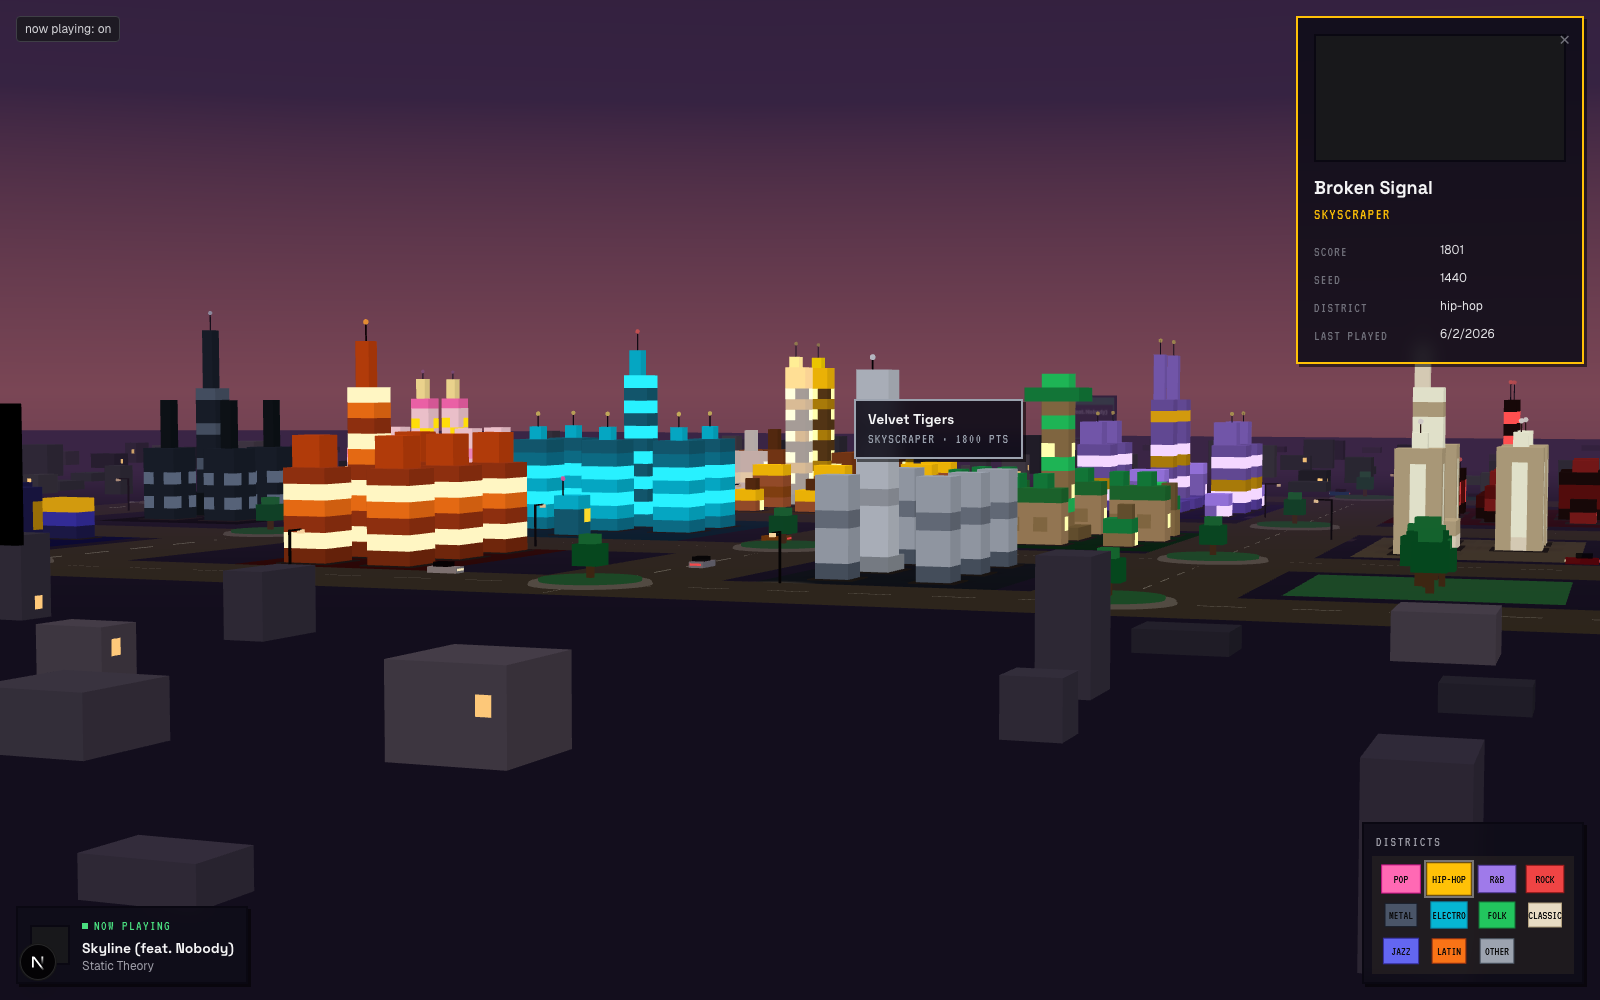
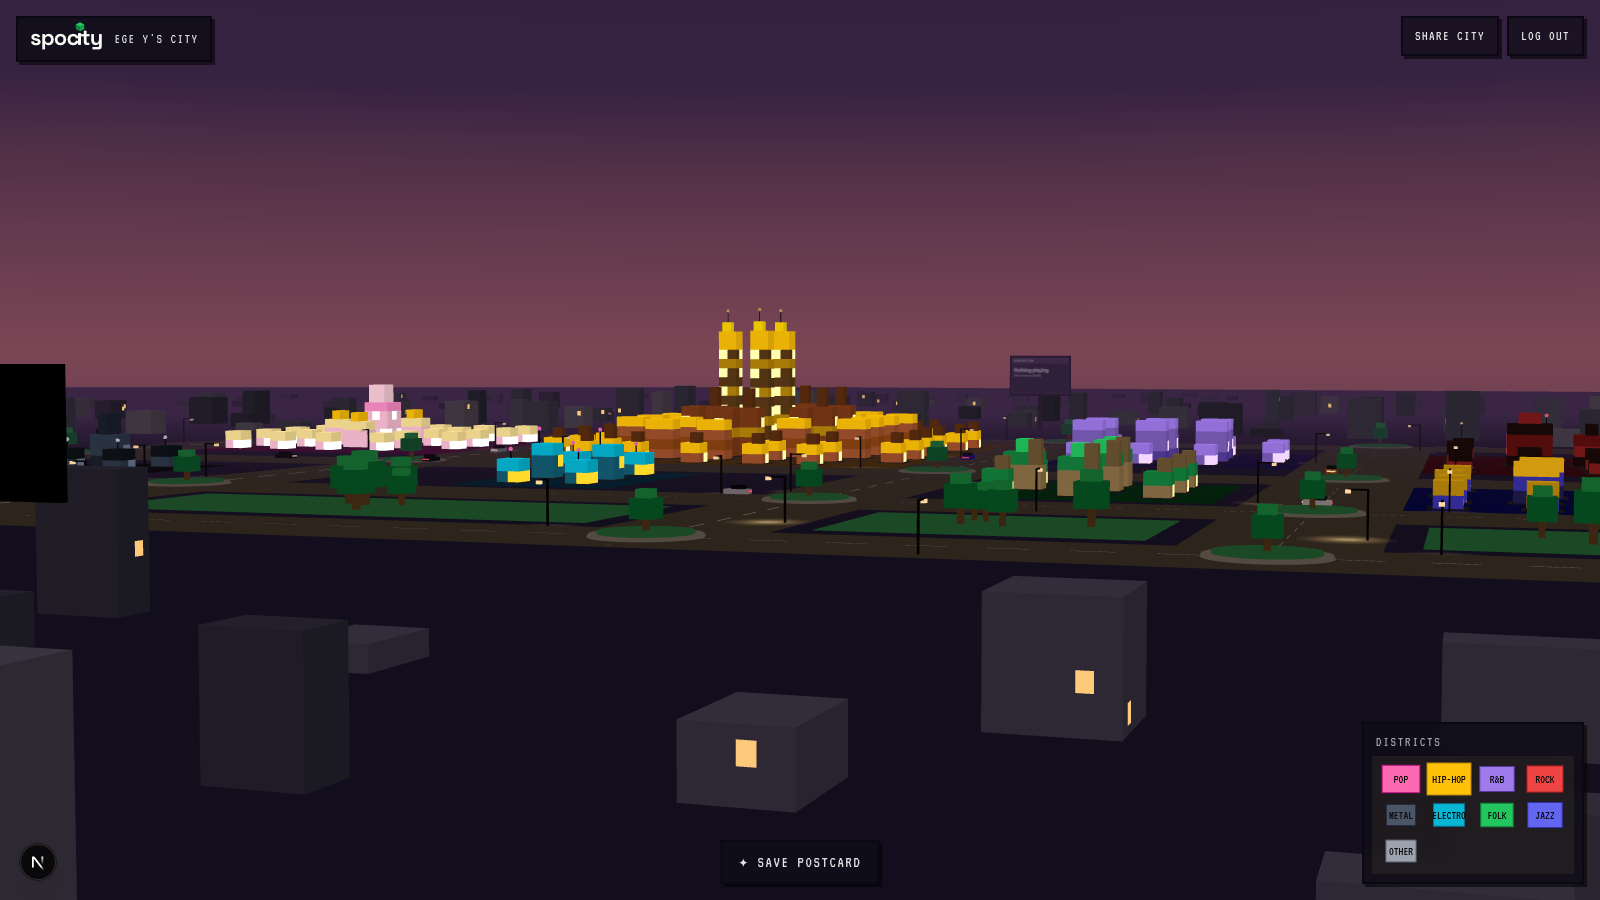
Refresh README with current screenshots and clearer copy
New shots from the live app: city overview, building detail panel, and a
generated postcard. Rewrote the intro, how-it-works, stack and structure
sections to match the shipped full-stack app (public pages, postcard,
Railway backend) and tightened the prose.

diff --git a/README.md b/README.md
@@ -1,72 +1,71 @@
 # spocity
 
-> Your Spotify listening, built as a city. Every artist you listen to becomes a voxel building — the more you play them, the taller it grows. Genres settle into districts with their own architecture, and the skyline changes as your taste does.
+> Your Spotify listening turned into a 3D voxel city you can walk through. Every artist you play becomes a building, and the more you listen the taller it grows. Genres settle into their own neighborhoods, and the skyline changes as your taste does.
 
-**Live**: [spocity-smoky.vercel.app](https://spocity-smoky.vercel.app) · [connect Spotify](https://spocity-smoky.vercel.app/api/auth/login) to build your own, or wander the [demo city](https://spocity-smoky.vercel.app/demo) with no login.
+**Live:** [spocity-smoky.vercel.app](https://spocity-smoky.vercel.app) · [connect Spotify](https://spocity-smoky.vercel.app/api/auth/login) to build your own, or explore the [demo city](https://spocity-smoky.vercel.app/demo) without signing in.
 
-![The city at dusk](docs/city-overview.png)
+![A voxel city at dusk, seen from above](docs/city-overview.png)
 
-| | |
-|---|---|
-| ![Street level](docs/street-level.png) | ![Landing page](docs/landing.png) |
-
----
+<table>
+<tr>
+<td width="50%"><img src="docs/detail-panel.png" alt="Clicking a building shows the artist, tier, score and last-played date" /></td>
+<td width="50%"><img src="docs/postcard.png" alt="A shareable postcard rendered from the city" /></td>
+</tr>
+<tr>
+<td align="center"><em>Click any building for the artist behind it</em></td>
+<td align="center"><em>Save a shareable postcard of your city</em></td>
+</tr>
+</table>
 
 ## What it does
 
-- **One building per artist.** Buildings climb six tiers — shack, house, apartment, office, skyscraper, landmark — driven by a score of `seed + observed plays`. Day one is seeded from your Spotify top artists so the city is full within seconds; from then on, every play Spocity observes adds a voxel's worth of progress.
-- **Genre districts.** Artists are classified into ten high-level genre buckets (plus an "other" outskirts) via an ordered keyword matcher over Last.fm tags. Each district has hand-authored voxel architecture: brownstones with gold trim for hip-hop, glasshouse towers for electronic, art-deco spires for jazz.
-- **A city at dusk.** Flat-shaded pixel-art voxels with baked 3-tone shading, glowing windows, streetlights, ambient traffic, procedural outskirts and a gradient sky dome. Hover any building for the artist behind it; the artist you're playing *right now* pulses.
-- **Background ingestion.** Celery workers poll `recently-played` hourly per active user and recompute scores nightly, emitting tier-change events.
+Sign in with Spotify and Spocity reads your top artists, then lays out a city within a few seconds. Each artist is a building sized by how much you listen, climbing six tiers from a one-block shack up to a landmark tower. Artists get sorted into ten genre districts, each with its own architecture and palette: brownstones with gold trim for hip-hop, glass towers for electronic, art-deco spires for jazz. Hover a building to see who it is, and the artist you are playing right now glows and pulses on its tower.
 
-## Try it
+Every city lives at a public URL you can share (`/your-name`), and a **Save postcard** button renders a 1200×630 image of the skyline entirely in the browser. The demo city is the same thing without a login, so anyone can walk around one before deciding to connect their own account.
 
-Two ways in, both live:
+## How it works
 
-- **Connect Spotify** → the app pulls your top artists, seeds a skyline in seconds, classifies each artist into a district (with a progress bar), and drops you into your own city at a public URL you can share (`/<your-name>`). Spotify caps development-mode apps at **25 hand-approved accounts**, so if the beta is full the sign-in gracefully routes you to the demo instead.
-- **Demo city** → the `/demo` route is a real, fully interactive city (the project owner's) — no login required. Every city has a **Save postcard** button that renders a shareable 1200×630 PNG client-side.
+The parts I found most interesting to build.
 
----
+**Flat-shaded voxels.** The look is isometric pixel art, and normal 3D lighting fights it: shadows wash the colors with the sky tint and the shading shifts as you orbit. So nothing in the city is lit at all. Each building is baked into one merged mesh with the three-tone face shading written directly into the vertex colors, and a small unlit shader draws it. Windows carry a `glow` flag that skips the shading and reads as light against the dusk. Interior faces between voxels are dropped, so a whole building renders in a single draw call.
+
+**Scoring that respects your history.** The first version scored artists with a two-half-life decay curve. Once it ran against real listening data, it buried anyone I loved a couple of years ago under whatever I happened to play last week, which felt wrong for a product about your taste over time. Scores are now cumulative on top of a rank-seeded starting point, and the idea of "fading" moved from the math into the visuals instead. Watching the decay model fail on real data and then cutting it taught me more than keeping it would have.
+
+**Genres as a feedback loop.** Spotify removed genre tags from its artist objects in 2024, so tags come from Last.fm and run through an ordered keyword matcher that folds hundreds of micro-genres into ten buckets. Anything the matcher misses gets logged to its own table, so the rules improve from real misses rather than guesswork.
+
+**A preview harness for the 3D work.** For a while the city only rendered behind a Spotify login, so every visual change shipped blind. I added a dev-only route that renders the real city from a fixed mock payload, which turned iteration into a screenshot loop. It later grew into the public `/demo` page.
 
 ## Stack
 
 | Layer | Tech |
 |---|---|
-| Frontend | Next.js 15 (App Router) · TypeScript · Tailwind v4 · React Three Fiber |
-| Backend | Django 6 · Django REST Framework |
-| Database | Postgres 16 (Railway managed in prod, Docker locally) |
-| Workers | Celery + Redis (hourly ingest, nightly recompute) |
-| Genre data | Last.fm `artist.getTopTags` (Spotify removed artist genres in 2024) |
-| Hosting | Vercel (frontend) · Railway (Django + Postgres) |
+| Frontend | Next.js 15 (App Router), TypeScript, Tailwind v4, React Three Fiber |
+| Backend | Django 6, Django REST Framework |
+| Database | Postgres 16 (Railway in production, Docker locally) |
+| Workers | Celery and Redis for hourly ingestion and nightly recompute |
+| Genre data | Last.fm `artist.getTopTags` |
+| Hosting | Vercel (frontend), Railway (Django and Postgres) |
 
-The frontend proxies `/api/*` to the Railway backend via a Next.js rewrite, so the Django session cookie stays first-party on the Vercel origin — no cross-site cookie problems. Because the hosted deployment has no Celery worker running, first-login ingestion happens on-demand: a fast Spotify-only seed, then a batched Last.fm district-classification loop with a progress bar, and a play refresh on every city load.
-
-## Engineering notes
-
-A few decisions that shaped the project:
-
-- **Baked flat voxel shading.** The reference art is isometric pixel art, which PBR lighting can't reproduce — it washes colors with the sky tint and shifts with the camera. Instead, each building is one merged, interior-face-culled `BufferGeometry` with a 3-tone face shade baked into linear vertex colors, rendered by a tiny unlit shader. Windows carry a `glow` flag and skip shading entirely so they read as light sources. An entire building is a single draw call.
-- **Scores accumulate; they don't decay.** v1 shipped a two-half-life exponential decay model. Run against real listening data it erased genuinely important artists (anything loved two years ago scored below last week's background noise), so it was removed: scores are now cumulative on top of a rank-seeded anchor, and "fading" will be expressed visually (weathering) rather than numerically. Building the algorithm, measuring it against reality, and deleting it was the most useful thing this project taught me.
-- **Genre rollup as a feedback loop.** Spotify stopped returning artist genres, so tags come from Last.fm and pass through an ordered substring classifier into ten buckets. Every unmatched tag is logged to a `genre_unmapped` table — the classifier improves from production data instead of guesswork.
-- **A design harness, because 3D behind OAuth is invisible.** Every visual change used to ship blind (the city only rendered for a logged-in Spotify account). `/dev/city` renders the real city view from a deterministic mock payload, which made screenshot-driven iteration possible — and later became the public `/demo` route.
+The frontend proxies `/api/*` to the Railway backend through a Next.js rewrite, which keeps the Django session cookie first-party on the Vercel origin and avoids cross-site cookie problems. Because the hosted deployment runs without a Celery worker, first-login ingestion happens on demand: a quick Spotify-only seed, then a batched Last.fm classification pass with a progress bar, and a play refresh whenever a city loads.
 
 ## Architecture
 
 ```
 Browser
-  │
-  ├─ GET /        →  Next.js — landing (demo mode: all CTAs → /demo)
-  ├─ GET /demo    →  Next.js — sample city, no auth, fully client-side
-  ├─ GET /me      →  Next.js SSR → Django /api/auth/me/ (session cookie)
-  └─ client fetches → Django REST API
+  ├─ GET /            Next.js landing page
+  ├─ GET /demo        redirects to the owner's public city (mock fallback)
+  ├─ GET /<name>      public read-only city
+  ├─ GET /me          your own city (Django session cookie)
+  └─ client fetches   /api/* proxied to the Django backend
 
-Django
-  ├─ core/        auth (Spotify OAuth PKCE), city payload, genre rollup
-  └─ Celery worker + beat → Redis
-        ├─ hourly:  poll /recently-played per active user
+Django (Railway)
+  ├─ Spotify OAuth (PKCE), on-demand ingest, genre rollup
+  ├─ city payload + now-playing endpoints
+  └─ Celery worker + beat  →  Redis
+        ├─ hourly:  poll recently-played per active user
         └─ nightly: recompute scores, emit tier-change events
 
-Postgres ← Django ORM        Last.fm ← genre tags
+Postgres  ←  Django ORM            Last.fm  ←  genre tags
 ```
 
 ## Project structure
@@ -75,63 +74,45 @@ Postgres ← Django ORM        Last.fm ← genre tags
 spocity/
 ├── frontend/
 │   ├── app/
-│   │   ├── page.tsx           # Landing page (dusk aesthetic, live voxel hero)
-│   │   ├── demo/              # Public sample city (no auth)
-│   │   ├── dev/city/          # Dev-only design harness (404s in prod)
-│   │   ├── me/                # Authenticated city view
-│   │   │   └── city/          # 3D scene: mesher, materials, buildings, HUD
-│   │   └── api/auth/          # OAuth login + callback routes
-│   ├── components/            # Wordmark, hero city, CTA buttons
-│   └── lib/                   # fetchAPI, auth context, demo payload
+│   │   ├── page.tsx        Landing page (dusk aesthetic, live voxel hero)
+│   │   ├── demo/           Public demo city, redirects to the owner's
+│   │   ├── [username]/     Public per-user city pages
+│   │   ├── dev/city/       Dev-only design harness (404s in production)
+│   │   ├── me/             Your authenticated city
+│   │   │   └── city/       3D scene: mesher, materials, buildings, HUD
+│   │   └── api/auth/       OAuth login + callback routes
+│   ├── components/         Wordmark, hero city, CTA + postcard
+│   └── lib/                fetchAPI, auth context, district + demo data
 ├── backend/
-│   ├── core/                  # models, views, genre rollup, Spotify/Last.fm clients
-│   └── spocity/               # Django config, Celery app
+│   ├── core/               models, views, genre rollup, Spotify/Last.fm clients
+│   ├── start.sh            production entrypoint (migrate + gunicorn)
+│   └── spocity/            Django config, Celery app
 └── docker-compose.yml
 ```
 
----
+## Running it locally
 
-## Local development
+You only need Docker Desktop. Python and Node run inside the containers.
 
-Only **Docker Desktop** is required — everything runs in containers.
-
-### 1. Clone
+**1. Clone**
 
 ```bash
 git clone https://github.com/egeyesss/spocity.git
 cd spocity
 ```
 
-### 2. Spotify Developer App
+**2. Create a Spotify app.** In the [Spotify Developer Dashboard](https://developer.spotify.com/dashboard), make an app and add `http://127.0.0.1:3000/api/auth/callback/spotify` as a redirect URI. Spotify no longer accepts `localhost`, so use `127.0.0.1` everywhere. Copy the Client ID.
 
-1. Go to the [Spotify Developer Dashboard](https://developer.spotify.com/dashboard) and create an app.
-2. Under **Redirect URIs**, add `http://127.0.0.1:3000/api/auth/callback/spotify`.
-3. Note your **Client ID** and **Client Secret**.
-
-> **Gotcha**: Spotify no longer accepts `localhost` as a redirect URI. Use `127.0.0.1` everywhere.
-
-### 3. Environment variables
+**3. Set environment variables**
 
 ```bash
 cp backend/.env.example backend/.env
 cp frontend/.env.example frontend/.env.local
 ```
 
-Fill in `backend/.env`:
-```
-SECRET_KEY=<any long random string>
-SPOTIFY_CLIENT_ID=<from dashboard>
-SPOTIFY_CLIENT_SECRET=<from dashboard>
-```
+Put your `SECRET_KEY` and `SPOTIFY_CLIENT_ID` in `backend/.env`, and the same client ID in `frontend/.env.local` as `NEXT_PUBLIC_SPOTIFY_CLIENT_ID`. The rest can stay on the example defaults.
 
-Fill in `frontend/.env.local`:
-```
-NEXT_PUBLIC_SPOTIFY_CLIENT_ID=<same client ID>
-```
-
-Everything else can stay as the example defaults.
-
-### 4. First run
+**4. Start everything**
 
 ```bash
 docker compose up --build
@@ -140,21 +121,19 @@ docker compose exec backend python manage.py migrate
 
 - Frontend: http://127.0.0.1:3000
 - Backend API: http://127.0.0.1:8000/api/
-- Sample city without auth: http://127.0.0.1:3000/demo
+- Demo city without auth: http://127.0.0.1:3000/demo
 
-### 5. Useful commands
+**5. Handy commands**
 
 ```bash
 docker compose exec backend python manage.py <command>   # Django management
-docker compose exec backend python manage.py test        # backend tests
+docker compose exec backend pytest                       # backend tests (106)
 docker compose exec frontend npx tsc --noEmit            # typecheck
 docker compose logs -f backend                           # tail backend logs
 ```
 
----
+## Status
 
-## Status & roadmap
-
-Live end to end: Spotify OAuth, on-demand ingestion, scoring, genre districts, the full 3D city, public shareable city pages, and the postcard generator all run in production (Vercel + Railway). Planned next: tier-change growth animations, opt-in preview-clip audio, and a Spotify quota-extension request to lift the 25-user cap.
+Spotify OAuth, on-demand ingestion, scoring, genre districts, the 3D city, public shareable pages, and the postcard generator all run in production on Vercel and Railway. The Spotify app is in development mode, which caps it at 25 approved accounts, so a sign-in that can't be approved routes to the demo city instead. Next on the list: tier-change growth animations, opt-in preview-clip audio, and a Spotify quota request to lift the account cap.
 
 *Not affiliated with Spotify AB.*